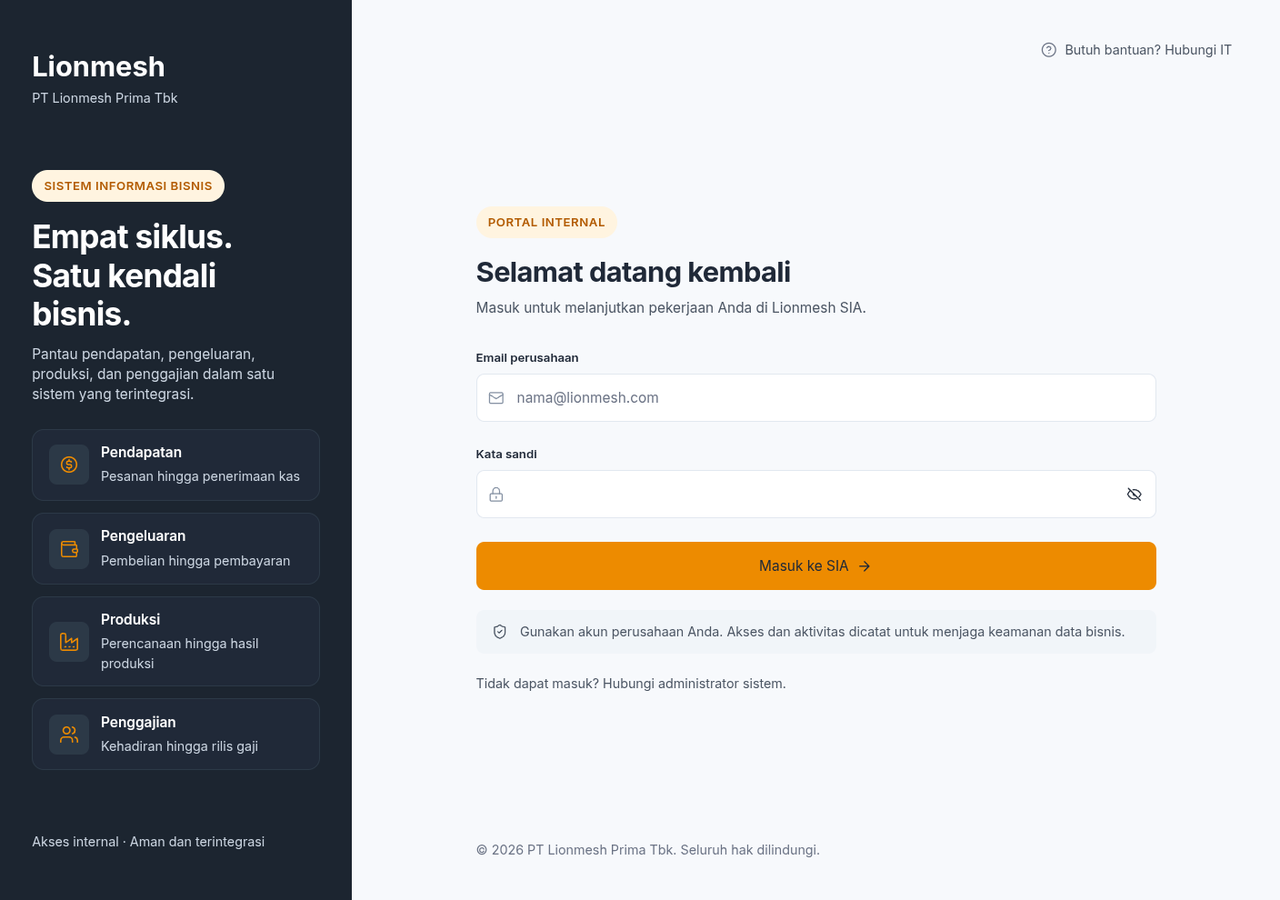
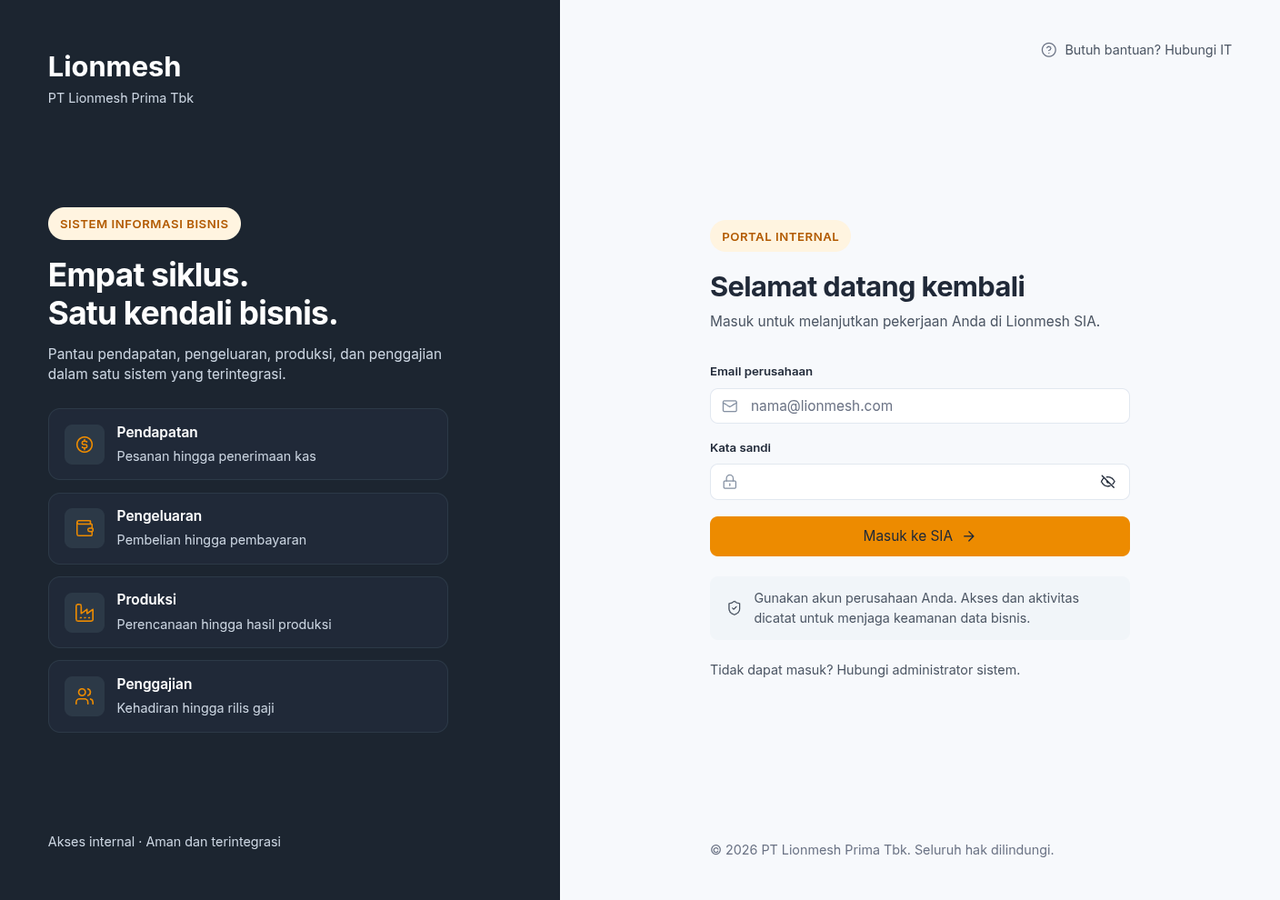
test: document authentication security verification

Changed region(s): [[0.0, 0.0, 0.9062, 1.0], [0.0, 0.0622, 0.1562, 0.1244], [0.0312, 0.9333, 0.2188, 0.9644]]

diff --git a/src/components/auth-form.tsx b/src/components/auth-form.tsx
@@ -72,10 +72,10 @@ export function AuthForm() {
     }
   }
 
-  const inputClass = "h-[calc(var(--control-height)+var(--space-3))] w-full rounded-[var(--radius-md)] border border-[var(--border-subtle)] bg-[var(--bg-surface)] py-0 pr-[var(--space-4)] pl-[var(--space-10)] text-[length:var(--font-size-body)] leading-[var(--line-height-body)] text-[color:var(--text-primary)] placeholder:text-[color:var(--text-muted)] hover:border-[var(--border-strong)] focus-visible:border-[var(--border-focus)] focus-visible:outline-[length:var(--focus-ring-width)] focus-visible:outline-[var(--border-focus)] focus-visible:outline-offset-[var(--focus-ring-offset)]";
+  const inputClass = "h-[var(--control-height)] w-full rounded-[var(--radius-md)] border border-[var(--border-subtle)] bg-[var(--bg-surface)] py-0 pr-[var(--space-4)] pl-[var(--space-10)] text-[length:var(--font-size-body)] leading-[var(--line-height-body)] text-[color:var(--text-primary)] placeholder:text-[color:var(--text-muted)] hover:border-[var(--border-strong)] focus-visible:border-[var(--border-focus)] focus-visible:outline-[length:var(--focus-ring-width)] focus-visible:outline-[var(--border-focus)] focus-visible:outline-offset-[var(--focus-ring-offset)]";
 
   return (
-    <form className="m-0 flex flex-col gap-[var(--space-6)]" onSubmit={handleSubmit}>
+    <form className="m-0 flex flex-col gap-[var(--space-4)]" onSubmit={handleSubmit}>
       <div className="flex flex-col gap-[var(--space-2)]">
         <label className="text-[length:var(--font-size-label)] leading-[var(--line-height-label)] font-semibold text-[color:var(--text-primary)]" htmlFor="email">Email perusahaan</label>
         <div className="relative flex items-center">
@@ -96,7 +96,7 @@ export function AuthForm() {
       </div>
 
       {error && <p className={styles.error} role="alert">{error}</p>}
-      <button className="flex min-h-[calc(var(--button-lg-height)+var(--space-2))] cursor-pointer items-center justify-center gap-[var(--space-2)] rounded-[var(--radius-md)] border-0 bg-[var(--brand-500)] px-[var(--space-4)] text-[length:var(--font-size-body)] font-semibold text-[color:var(--text-on-brand)] transition-colors duration-[var(--motion-fast)] hover:bg-[var(--brand-600)] focus-visible:outline-[length:var(--focus-ring-width)] focus-visible:outline-[var(--border-focus)] focus-visible:outline-offset-[var(--focus-ring-offset)] disabled:cursor-wait disabled:opacity-70" disabled={isLoading} type="submit">
+      <button className="flex min-h-[var(--button-lg-height)] cursor-pointer items-center justify-center gap-[var(--space-2)] rounded-[var(--radius-md)] border-0 bg-[var(--brand-500)] px-[var(--space-4)] text-[length:var(--font-size-body)] font-semibold text-[color:var(--text-on-brand)] transition-colors duration-[var(--motion-fast)] hover:bg-[var(--brand-600)] focus-visible:outline-[length:var(--focus-ring-width)] focus-visible:outline-[var(--border-focus)] focus-visible:outline-offset-[var(--focus-ring-offset)] disabled:cursor-wait disabled:opacity-70" disabled={isLoading} type="submit">
         {isLoading ? "Memproses..." : "Masuk ke SIA"}
         {!isLoading && <svg aria-hidden="true" className="h-[var(--space-4)] w-[var(--space-4)]" fill="none" stroke="currentColor" strokeLinecap="round" strokeLinejoin="round" strokeWidth="1.75" viewBox="0 0 24 24"><path d="M5 12h14m-7-7 7 7-7 7" /></svg>}
       </button>

diff --git a/src/app/login/page.tsx b/src/app/login/page.tsx
@@ -80,13 +80,13 @@ function SecurityIcon() {
 
 function BrandPanel() {
   return (
-    <aside className="flex min-h-screen w-[27.5%] min-w-[calc(var(--space-16)*5.5)] shrink-0 flex-col justify-between bg-[var(--bg-sidebar)] px-[var(--space-8)] py-[var(--space-12)] text-[color:var(--text-inverse)]">
+    <aside className="flex min-h-screen w-[43.75%] shrink-0 flex-col justify-between bg-[var(--bg-sidebar)] px-[var(--space-12)] py-[var(--space-12)] text-[color:var(--text-inverse)]">
       <header>
         <p className="m-0 text-[calc(var(--font-size-display)+var(--space-1))] font-bold leading-[calc(var(--line-height-display)+var(--space-1))]">Lionmesh</p>
         <p className="mt-[var(--space-1)] mb-0 text-[length:var(--font-size-body-sm)] leading-[var(--line-height-body-sm)] text-[color:var(--ink-200)]">PT Lionmesh Prima Tbk</p>
       </header>
 
-      <div className="w-full max-w-[calc(var(--space-16)*6)]">
+      <div className="w-full max-w-[calc(var(--dialog-confirm-width)-var(--space-4)*5)]">
         <div>
           <span className="inline-flex min-h-[var(--button-sm-height)] items-center rounded-[var(--radius-full)] bg-[var(--brand-50)] px-[var(--space-3)] text-[length:var(--font-size-label)] font-semibold uppercase tracking-[var(--letter-spacing-caption)] text-[color:var(--brand-700)]">
             Sistem Informasi Bisnis
@@ -129,7 +129,7 @@ export default function LoginPage() {
           <span>Butuh bantuan? Hubungi IT</span>
         </div>
 
-        <section aria-labelledby="login-title" className="my-auto w-full max-w-[calc(var(--dialog-form-width)+var(--space-5)*2)] self-center">
+        <section aria-labelledby="login-title" className="my-auto w-full max-w-[calc(var(--dialog-confirm-width)-var(--space-5)*3)] self-center">
           <header className="mb-[var(--space-8)]">
             <span className="inline-flex min-h-[var(--button-sm-height)] items-center rounded-[var(--radius-full)] bg-[var(--brand-50)] px-[var(--space-3)] text-[length:var(--font-size-label)] font-semibold uppercase tracking-[var(--letter-spacing-caption)] text-[color:var(--brand-700)]">Portal internal</span>
             <h1 className="mt-[var(--space-4)] mb-0 text-[calc(var(--font-size-display)+var(--space-1))] font-bold leading-[calc(var(--line-height-display)+var(--space-1))] tracking-[-0.02em] text-[color:var(--text-primary)]" id="login-title">Selamat datang kembali</h1>
@@ -148,7 +148,7 @@ export default function LoginPage() {
           <p className="mt-[var(--space-5)] mb-0 text-[length:var(--font-size-body-sm)] leading-[var(--line-height-body-sm)] text-[color:var(--text-secondary)]">Tidak dapat masuk? Hubungi administrator sistem.</p>
         </section>
 
-        <footer className="w-full max-w-[calc(var(--dialog-form-width)+var(--space-5)*2)] self-center text-[length:var(--font-size-body-sm)] leading-[var(--line-height-body-sm)] text-[color:var(--text-muted)]">
+        <footer className="w-full max-w-[calc(var(--dialog-confirm-width)-var(--space-5)*3)] self-center text-[length:var(--font-size-body-sm)] leading-[var(--line-height-body-sm)] text-[color:var(--text-muted)]">
           © 2026 PT Lionmesh Prima Tbk. Seluruh hak dilindungi.
         </footer>
       </main>

diff --git a/docs/product/items/FND-003-autentikasi-peran-rls/05-evidence.md b/docs/product/items/FND-003-autentikasi-peran-rls/05-evidence.md
@@ -29,7 +29,7 @@ Verifikasi mutu:
 
 ## Pemeriksaan UI dan sesi tambahan
 
-- Viewport CSS 1280 × 900 (2026-11-23): panel kiri 352 CSS px (27,5%), lebar dokumen 1280 CSS px tanpa overflow; screenshot [`login-1280.png`](login-1280.png). Label terhubung ke input dan tombol kata sandi mengubah input menjadi teks.
+- Viewport CSS 1280 × 900 (2026-11-23): panel kiri 560 CSS px (43,75%), konten kanan 420 px, field 36 px, tombol 40 px sesuai `LAYOUTS.md`; lebar dokumen 1280 px tanpa overflow. Screenshot [`login-1280.png`](login-1280.png). Label terhubung ke input dan tombol kata sandi mengubah input menjadi teks.
 - Proyek Supabase terisolasi: login nonaktif ditolak Auth; payload `updated_by` palsu diganti ID sesi. Token lama setelah pergantian peran tidak dapat membaca profil sendiri melalui REST. Database bersama tidak di-reset.
 - Screenshot halaman `/pengaturan` belum tersedia: worktree ini tidak memiliki `.env.local`, Supabase lokal tidak berjalan, dan tidak ada sesi uji untuk membuka halaman setelah login.
 
@@ -75,3 +75,24 @@ export async function POST() {
 Untuk mengulang, siapkan Supabase lokal terisolasi dengan migrasi FND-003 dan akun uji Gudang, lalu jalankan server Next.js yang terhubung ke proyek itu. `curl -i http://localhost:<port>/fnd003-verify` tanpa cookie menghasilkan 307 ke `/login`. Masuk sebagai Gudang di browser, lalu kirim `fetch('/fnd003-verify', { method: 'POST' })` dari halaman yang sama; hasil 403. Jangan gunakan akun produksi untuk pengujian.
 
 - Audit terhadap `matriks-izin.md` menemukan aksi menerima bahan dan barang jadi belum memiliki entri izin tersendiri; keduanya ditambahkan untuk peran Gudang. Uji endpoint modul tetap dilakukan saat fitur terkait tersedia.
+
+## Pengujian keamanan tambahan — 2026-11-23
+
+Lingkungan: Node v24.22.2, pnpm 10.18.3, Supabase CLI 3.2.0; Supabase dan PostgreSQL berjalan pada proyek lokal terisolasi `fnd003-security-verify`, dengan migrasi 0001–0004. Server Next.js di port 3195 menggunakan kredensial proyek sementara melalui environment proses. Database proyek lain tidak di-reset atau ditulis.
+
+Fixture route sementara memanggil `requireSesi()` pada GET dan `assertIzin("buat_pesanan")` pada POST. Akun uji dibuat pada proyek terisolasi dan menggunakan cookie SSR nyata. Hasil pengujian:
+
+- Tanpa sesi, GET `/pengaturan` menghasilkan HTTP 307 ke `/login`.
+- Akun Gudang mengirim POST langsung untuk aksi Penjualan: HTTP 403 dengan pesan `Peran Anda tidak berwenang melakukan tindakan ini.` Akun Penjualan dengan sesi baru: HTTP 200.
+- Setelah peran diubah, cookie lama menghasilkan HTTP 403 pada fixture dan HTTP 307 ke `/login` pada `/pengaturan`; login ulang menerima peran baru.
+- Setelah penonaktifan, cookie lama menghasilkan HTTP 403 pada fixture dan HTTP 307 ke `/login` pada `/pengaturan`; login ulang ditolak.
+- Uji UI dengan browser headless: login aktif menuju `/pengaturan` dan menampilkan peran; akun tidak ada, sandi salah, dan akun nonaktif masing-masing menampilkan `Username atau password salah.`
+- Endpoint Supabase Auth langsung mengembalikan HTTP 400 untuk ketiganya, tetapi kode JSON berbeda: `invalid_credentials` untuk akun tidak ada/sandi salah dan `user_banned` untuk akun nonaktif. Karena browser memanggil Auth langsung, respons jaringan dapat membedakan kedua keadaan. Perlu keputusan/perbaikan agar tidak mengungkap status akun; jangan menganggap kesamaan pesan UI saja sebagai bukti AC-12 sepenuhnya.
+
+AC-04 masih memerlukan uji pada aksi fitur sebenarnya; fixture membuktikan guard tetapi bukan endpoint bisnis. Audit seluruh pasangan aksi/peran berdasarkan sumber matriks yang independen juga masih diperlukan untuk AC-03. Fixture, akun uji, dan proyek terisolasi dihapus setelah pengujian.
+
+`pnpm verify` pada worktree yang sama selesai dengan exit code 0 setelah file tipe Next.js yang dihasilkan untuk fixture sementara dibersihkan; lint, typecheck, pemeriksaan arsitektur, dan build lulus.
+
+### Verifikasi kebocoran status dengan sandi salah
+
+Pada 2026-11-23, pengujian di proyek Supabase terisolasi membandingkan empat permintaan `signInWithPassword` langsung. Email tidak terdaftar dan akun aktif dengan sandi salah menghasilkan HTTP 400 / `invalid_credentials`; akun nonaktif menghasilkan HTTP 400 / `user_banned`, baik saat sandinya salah maupun benar. Karena kode berbeda bahkan tanpa mengetahui sandi, respons jaringan dapat digunakan untuk membedakan akun nonaktif. AC-12 tetap parsial dan PR belum layak ditandai siap sampai batas akses endpoint atau mekanisme Auth diperbaiki dan diuji ulang.
